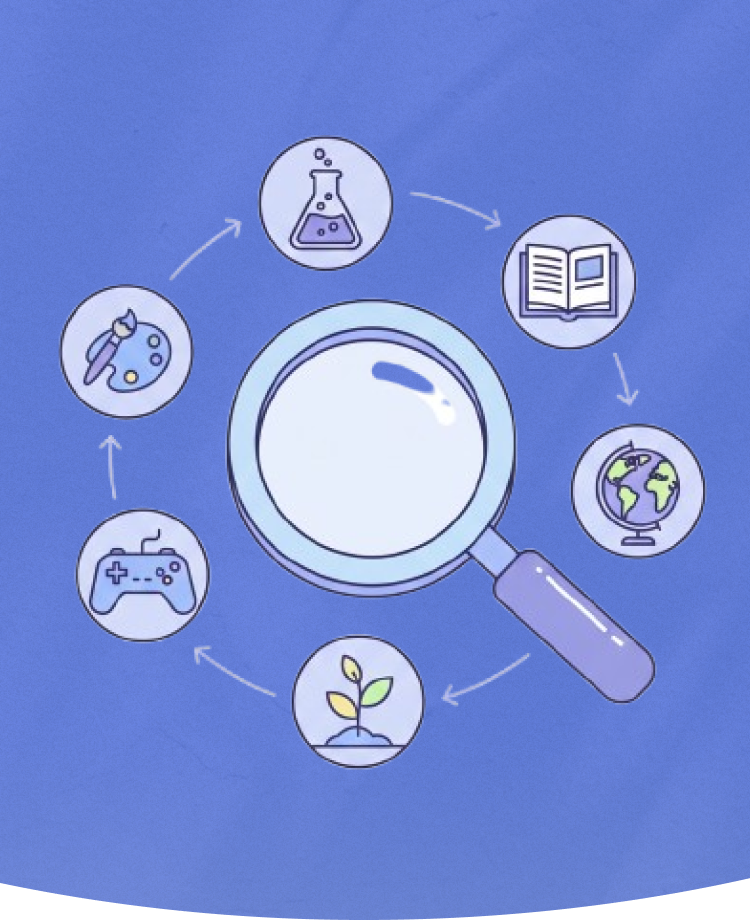
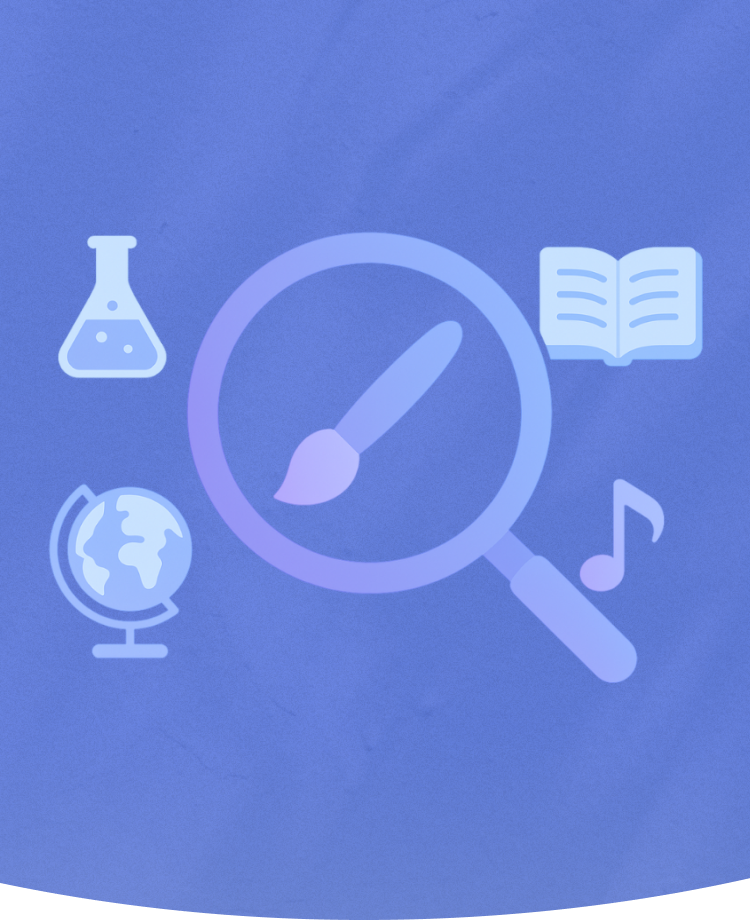
Replace SAQ section images and add new homescreens
Replaced .jpg images with .png versions for SAQ sections and updated references throughout the app. Added new homescreen widgets for Skills & Aptitudes, Personality & Work Style, and Work Values sections, and updated navigation routes and UI layouts to support these changes. Adjusted font sizes and padding for improved consistency.

Changed region(s): [[0.0613, 0.1217, 0.9507, 0.8522], [0.5827, 0.213, 0.6747, 0.2435]]

diff --git a/aspire/lib/screens/saq_screens/personalityandworkstyle_homescreen.dart b/aspire/lib/screens/saq_screens/personalityandworkstyle_homescreen.dart
@@ -7,16 +7,16 @@ import '../../models/static/app_color.dart';
 import '../../models/static/named_routes.dart';
 import '../../widgets/bottom_nav_bar.dart';
 
-class InterestsHomescreen extends ConsumerStatefulWidget {
-  const InterestsHomescreen({super.key});
+class PersonalityandworkstyleHomescreen extends ConsumerStatefulWidget {
+  const PersonalityandworkstyleHomescreen({super.key});
 
   @override
-  ConsumerState<InterestsHomescreen> createState() {
-    return _InterestsHomescreenState();
+  ConsumerState<PersonalityandworkstyleHomescreen> createState() {
+    return _PersonalityandworkstyleHomescreenState();
   }
 }
 
-class _InterestsHomescreenState extends ConsumerState<InterestsHomescreen> {
+class _PersonalityandworkstyleHomescreenState extends ConsumerState<PersonalityandworkstyleHomescreen> {
   @override
   Widget build(BuildContext context) {
     return Scaffold(
@@ -24,7 +24,7 @@ class _InterestsHomescreenState extends ConsumerState<InterestsHomescreen> {
       
       body: Column(
         children: [
-          Image.asset('assets/interests_heropage.png'),
+          Image.asset('assets/personalityandworkstyle_heropage.png'),
 
           Expanded(
             child: Padding(
@@ -32,7 +32,7 @@ class _InterestsHomescreenState extends ConsumerState<InterestsHomescreen> {
               child: Column(
                 children: [
                   Text(
-                    'Section 1: Interests',
+                    'Section 4: Personality & Work Style',
                     style: GoogleFonts.manrope(
                       fontWeight: FontWeight.w700, 
                       fontSize: 20, 
@@ -44,7 +44,7 @@ class _InterestsHomescreenState extends ConsumerState<InterestsHomescreen> {
             
                   Text(
                     textAlign: TextAlign.center,
-                    '"Discover what you love."\n Identify the activities, topics, and hobbies that naturally excite you to find fields where you will be most engaged.',
+                    '"Understand how you fit."\n Analyze your preferred work environment, decision-making style, and how you collaborate with others.',
                     style: GoogleFonts.manrope(
                       fontWeight: FontWeight.w500, 
                       fontSize: 16, 
@@ -53,13 +53,12 @@ class _InterestsHomescreenState extends ConsumerState<InterestsHomescreen> {
                   ),
             
                   SizedBox(height: 26,),
-            
+
                   Spacer(),
-            
             
                   QuizButton(text: "Get Started", 
                   buttonFunction: () {
-                    Navigator.pushNamed(context, NamedRoutes.saqSkillsAndAptitudes);
+                    Navigator.pushNamed(context, NamedRoutes.saqWorkValues);
                   },),
                 ],
               ),  

diff --git a/aspire/lib/screens/saq_screens/skillsandaptitudes_homescreen.dart b/aspire/lib/screens/saq_screens/skillsandaptitudes_homescreen.dart
@@ -7,16 +7,16 @@ import '../../models/static/app_color.dart';
 import '../../models/static/named_routes.dart';
 import '../../widgets/bottom_nav_bar.dart';
 
-class InterestsHomescreen extends ConsumerStatefulWidget {
-  const InterestsHomescreen({super.key});
+class SkillsandaptitudesHomescreen extends ConsumerStatefulWidget {
+  const SkillsandaptitudesHomescreen({super.key});
 
   @override
-  ConsumerState<InterestsHomescreen> createState() {
-    return _InterestsHomescreenState();
+  ConsumerState<SkillsandaptitudesHomescreen> createState() {
+    return _SkillsandaptitudesHomescreenState();
   }
 }
 
-class _InterestsHomescreenState extends ConsumerState<InterestsHomescreen> {
+class _SkillsandaptitudesHomescreenState extends ConsumerState<SkillsandaptitudesHomescreen> {
   @override
   Widget build(BuildContext context) {
     return Scaffold(
@@ -24,7 +24,7 @@ class _InterestsHomescreenState extends ConsumerState<InterestsHomescreen> {
       
       body: Column(
         children: [
-          Image.asset('assets/interests_heropage.png'),
+          Image.asset('assets/skillsandaptitudes_heropage.png'),
 
           Expanded(
             child: Padding(
@@ -32,7 +32,7 @@ class _InterestsHomescreenState extends ConsumerState<InterestsHomescreen> {
               child: Column(
                 children: [
                   Text(
-                    'Section 1: Interests',
+                    'Section 2: Skills & Aptitudes',
                     style: GoogleFonts.manrope(
                       fontWeight: FontWeight.w700, 
                       fontSize: 20, 
@@ -44,7 +44,7 @@ class _InterestsHomescreenState extends ConsumerState<InterestsHomescreen> {
             
                   Text(
                     textAlign: TextAlign.center,
-                    '"Discover what you love."\n Identify the activities, topics, and hobbies that naturally excite you to find fields where you will be most engaged.',
+                    '"Define what you excel at."\n Assess your natural talents and technical abilities to highlight the tasks where you perform your best.',
                     style: GoogleFonts.manrope(
                       fontWeight: FontWeight.w500, 
                       fontSize: 16, 
@@ -53,13 +53,12 @@ class _InterestsHomescreenState extends ConsumerState<InterestsHomescreen> {
                   ),
             
                   SizedBox(height: 26,),
-            
+
                   Spacer(),
-            
             
                   QuizButton(text: "Get Started", 
                   buttonFunction: () {
-                    Navigator.pushNamed(context, NamedRoutes.saqSkillsAndAptitudes);
+                    Navigator.pushNamed(context, NamedRoutes.saqWorkValues);
                   },),
                 ],
               ),  

diff --git a/aspire/lib/screens/saq_screens/workvalues_homescreen.dart b/aspire/lib/screens/saq_screens/workvalues_homescreen.dart
@@ -1,0 +1,73 @@
+import 'package:aspire/widgets/quiz_button.dart';
+import 'package:flutter/material.dart';
+import 'package:google_fonts/google_fonts.dart';
+import 'package:hooks_riverpod/hooks_riverpod.dart';
+
+import '../../models/static/app_color.dart';
+import '../../models/static/named_routes.dart';
+import '../../widgets/bottom_nav_bar.dart';
+
+class WorkvaluesHomescreen extends ConsumerStatefulWidget {
+  const WorkvaluesHomescreen({super.key});
+
+  @override
+  ConsumerState<WorkvaluesHomescreen> createState() {
+    return _WorkvaluesHomescreenState();
+  }
+}
+
+class _WorkvaluesHomescreenState extends ConsumerState<WorkvaluesHomescreen> {
+  @override
+  Widget build(BuildContext context) {
+    return Scaffold(
+      bottomNavigationBar: BottomNavBar(ref: ref,),
+      
+      body: Expanded(
+        child: Column(
+          children: [
+            Image.asset('assets/workvalues_heropage.png'),
+        
+            Expanded(
+              child: Padding(
+                padding: EdgeInsets.fromLTRB(26, 34, 26, 26),
+                child: Column(
+                  children: [
+                    Text(
+                      'Section 3: Work Values',
+                      style: GoogleFonts.manrope(
+                        fontWeight: FontWeight.w700, 
+                        fontSize: 20, 
+                        color: AppColor.textBlack,
+                      ),
+                    ),
+                      
+                    SizedBox(height: 18,),
+                      
+                    Text(
+                      textAlign: TextAlign.center,
+                      '"Uncover what drives you."\n Determine the core motivations—like high income, creativity, or stability—that are essential for your long-term career satisfaction.',
+                      style: GoogleFonts.manrope(
+                        fontWeight: FontWeight.w500, 
+                        fontSize: 16, 
+                        color: AppColor.textGrey,
+                      ),
+                    ),
+                      
+                    SizedBox(height: 26,),
+              
+                    Spacer(),
+                      
+                    QuizButton(text: "Get Started", 
+                    buttonFunction: () {
+                      Navigator.pushNamed(context, NamedRoutes.saqPersonalityAndWorkstyle);
+                    },),
+                  ],
+                ),  
+              ),
+            ),
+          ],
+        ),
+      )
+    );
+  }
+}

diff --git a/aspire/lib/models/static/named_routes.dart b/aspire/lib/models/static/named_routes.dart
@@ -2,6 +2,9 @@
 import 'package:aspire/screens/onboarding_screens/onboarding2.dart';
 import 'package:aspire/screens/saq_screens/interests_homescreen.dart';
 import 'package:aspire/screens/onboarding_screens/onboarding1.dart';
+import 'package:aspire/screens/saq_screens/personalityandworkstyle_homescreen.dart';
+import 'package:aspire/screens/saq_screens/skillsandaptitudes_homescreen.dart';
+import 'package:aspire/screens/saq_screens/workvalues_homescreen.dart';
 import 'package:aspire/screens/skill_assessment_quiz.dart';
 import 'package:flutter/material.dart';
 
@@ -26,6 +29,12 @@ class NamedRoutes {
   static final String saqInterestsHomescreen = '/saqInterestsHomescreen';
   static final String saqInterestsQuizscreen = '/saqInterestsQuizscreen';
 
+  static final String saqSkillsAndAptitudes = '/saqSkillsAndAptitudes';
+
+  static final String saqPersonalityAndWorkstyle = '/saqPersonalityAndWorkstyle';
+
+  static final String saqWorkValues = '/saqWorkValues';
+
   static Map<String, Widget Function(BuildContext)> routes = {
     //MAIN SCREENS
     getStartedScreen: (context) => const GetStartedScreen(),
@@ -40,5 +49,11 @@ class NamedRoutes {
     //SKILL ASSESSMENT QUIZ SCREENS
     saqInterestsHomescreen: (context) => const InterestsHomescreen(),
     saqInterestsQuizscreen: (context) => const InterestsQuizscreen(),
+
+    saqSkillsAndAptitudes: (context) => const SkillsandaptitudesHomescreen(),
+
+    saqPersonalityAndWorkstyle: (context) => const PersonalityandworkstyleHomescreen(),
+
+    saqWorkValues: (context) => const WorkvaluesHomescreen(),
   };
 }

diff --git a/aspire/lib/screens/skill_assessment_quiz.dart b/aspire/lib/screens/skill_assessment_quiz.dart
@@ -78,10 +78,10 @@ class _SkillAssessmentQuizState extends ConsumerState<SkillAssessmentQuiz> {
                     physics: NeverScrollableScrollPhysics(),
                     crossAxisCount: 2,
                     children: [
-                      QuizSectionCard(imagePath: 'assets/interests.jpg', title: 'Interests',),
-                      QuizSectionCard(imagePath: 'assets/skillsandaptitudes.jpg', title: 'Skills & Aptitudes',),
-                      QuizSectionCard(imagePath: 'assets/balance.jpg', title: 'Work Values',),
-                      QuizSectionCard(imagePath: 'assets/personality.jpg', title: 'Personality & Work Style',),
+                      QuizSectionCard(imagePath: 'assets/interests.png', title: 'Interests',),
+                      QuizSectionCard(imagePath: 'assets/skillsandaptitudes.png', title: 'Skills & Aptitudes',),
+                      QuizSectionCard(imagePath: 'assets/balance.png', title: 'Work Values',),
+                      QuizSectionCard(imagePath: 'assets/personality.png', title: 'Personality & Work Style',),
                       
                     ],
                   ),

diff --git a/aspire/lib/widgets/quiz_section_card.dart b/aspire/lib/widgets/quiz_section_card.dart
@@ -21,12 +21,12 @@ class QuizSectionCard extends StatelessWidget {
         decoration: BoxDecoration(
           borderRadius: BorderRadius.circular(15.0),
           image: DecorationImage(
-            image: AssetImage(imagePath), // Replace with your image URL or Asset Image
-            fit: BoxFit.cover, // Adjust how the image fits within the container
+            image: AssetImage(imagePath),
+            fit: BoxFit.cover
           ),
         ),
         child: Padding(
-          padding: const EdgeInsets.all(8.0),
+          padding: const EdgeInsets.all(12.0),
           child: Column(
             crossAxisAlignment: CrossAxisAlignment.start,
             children: [
@@ -34,7 +34,7 @@ class QuizSectionCard extends StatelessWidget {
                 title,
                 style: GoogleFonts.manrope(
                   fontWeight: FontWeight.w600, 
-                  fontSize: 20, 
+                  fontSize: 14, 
                   color: AppColor.textWhite,),
               ),
           

diff --git a/aspire/lib/screens/saq_screens/interests_quizscreen.dart b/aspire/lib/screens/saq_screens/interests_quizscreen.dart
@@ -36,7 +36,7 @@ class _InterestsQuizscreenState extends ConsumerState<InterestsQuizscreen> {
                   'Section 1: Interests',
                   style: GoogleFonts.manrope(
                     fontWeight: FontWeight.w700, 
-                    fontSize: 34, 
+                    fontSize: 20, 
                     color: AppColor.textBlack,
                   ),
                 ),

diff --git a/aspire/lib/screens/register_screen.dart b/aspire/lib/screens/register_screen.dart
@@ -164,7 +164,7 @@ class _RegisterScreenState extends State<RegisterScreen> {
                     ),
                   ),
 
-                  SizedBox(height: 80,),
+                  SizedBox(height: 40,),
 
                   Row(
                 mainAxisAlignment: MainAxisAlignment.center,

diff --git a/aspire/lib/screens/login_screen.dart b/aspire/lib/screens/login_screen.dart
@@ -238,7 +238,7 @@ class _LoginScreenState extends State<LoginScreen> {
                 ],
               ),
 
-              SizedBox(height: 130,),
+              SizedBox(height: 90,),
 
               Row(
                 mainAxisAlignment: MainAxisAlignment.center,
